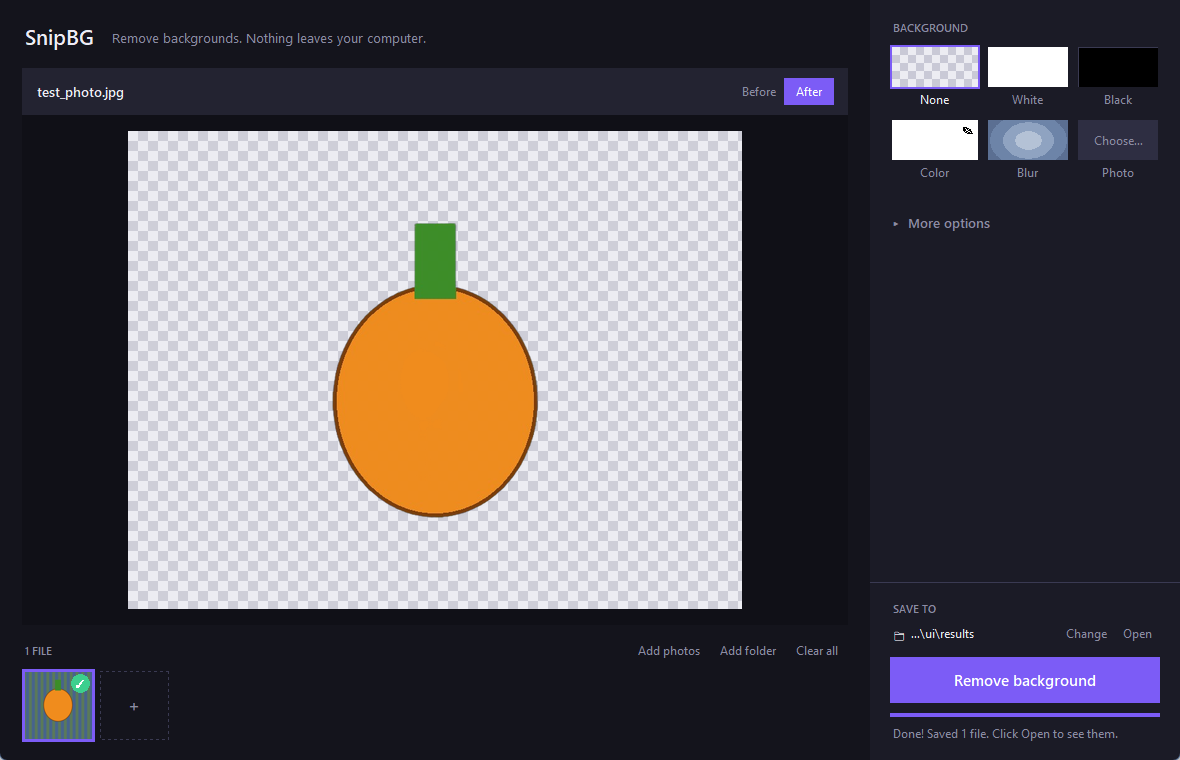
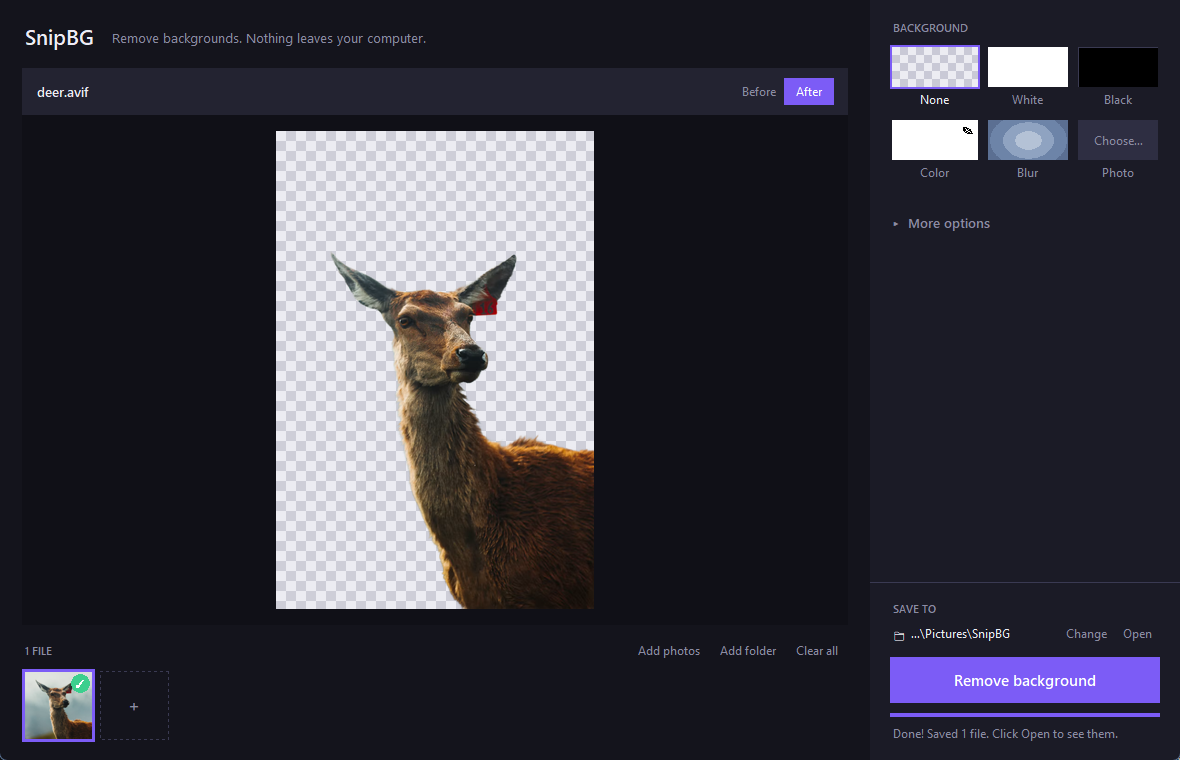
Support AVIF images; new README screenshot

diff --git a/app.py b/app.py
@@ -665,7 +665,7 @@ class App:
             self.s.bg_color = c
         elif key == "image":
             p = filedialog.askopenfilename(title="Background photo",
-                                           filetypes=[("Images", "*.png *.jpg *.jpeg *.webp *.bmp")])
+                                           filetypes=[("Images", "*.png *.jpg *.jpeg *.webp *.bmp *.avif")])
             if not p:
                 if not self.s.bg_image:
                     return

diff --git a/core.py b/core.py
@@ -27,7 +27,7 @@ except Exception:  # pragma: no cover
     _ndi = None
 
 
-IMAGE_EXTS = (".jpg", ".jpeg", ".png", ".webp", ".bmp", ".tiff")
+IMAGE_EXTS = (".jpg", ".jpeg", ".png", ".webp", ".bmp", ".tiff", ".avif")
 GIF_EXTS = (".gif",)
 VIDEO_EXTS = (".mp4", ".mov", ".avi", ".webm", ".mkv")
 

diff --git a/README.md b/README.md
@@ -15,7 +15,7 @@
 
 <br>
 
-<img src="docs/screenshot.png" alt="SnipBG with a photo whose background has been removed" width="820">
+<img src="docs/screenshot.png" alt="SnipBG showing a deer photo with its background removed" width="820">
 
 </div>
 
